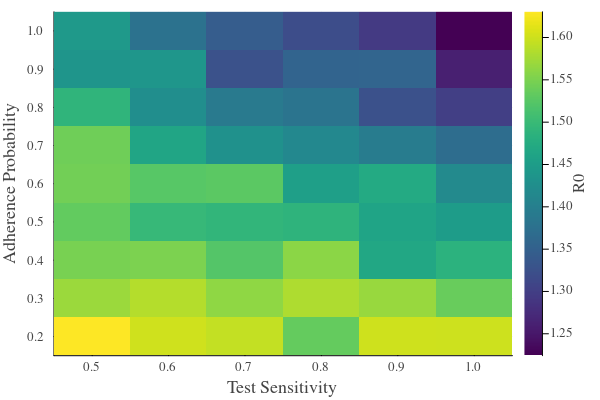
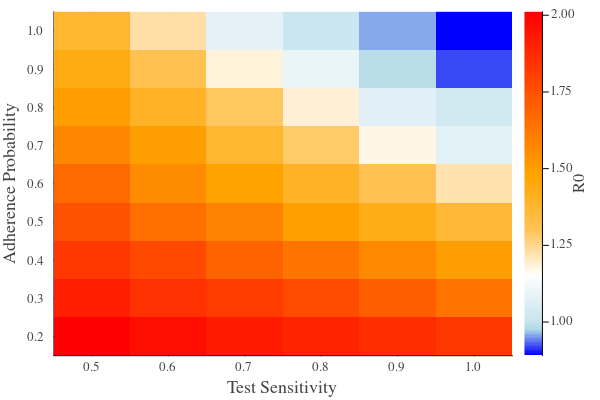
interventions, batches and results

diff --git a/docs/src/modelling_case_study.md b/docs/src/modelling_case_study.md
@@ -447,41 +447,46 @@ println(r0(rd_f))
 ```
 
 ### 3.3 Interventions
-In this section, we define a **reusable intervention strategy**: testing combined with isolation. This is the core “intervention” concept, and all later experiments build on it. 
+In this section, we define a **reusable intervention strategy**: testing combined with isolation. This is the core “intervention” concept, and all later experiments build on it.
 
-We encapsulate the testing and isolation strategy in a function `test_and_isolation(sim; ...)`:
+```@raw html
+<p align="center">
+    <img src="assets/case_study/trism_graphic.png" width="80%"/>
+</p>
+```
+
+We encapsulate the testing and isolation strategy in a function `tick_test_and_isolation(sim; ...)`:
 
 - Create a new **antigen test** with configurable sensitivity and specificity.  
-- Define a **self-isolation strategy** that is applied after a positive test.  
-- Combine the test and isolation into a **TriSM**, triggered by symptoms.  
+- Define a **self-isolation strategy** that is applied after a positive test.
+- Trigger the testing strategy by a certain **tick**
 - Apply optional **delays** and **conditions** to testing and isolation.
 
 
 ```julia
-function test_and_isolation!(sim::Simulation; 
+function tick_test_and_isolation!(sim::Simulation; 
     test_sensitivity::Float64 = 1.0, 
     test_specificity::Float64 = 1.0, 
     test_condition::Function = i -> true,                         
     isolation_condition::Function = i -> true,
     test_delay::Function = i -> 0,
-    isolation_delay::Function = i -> 0)
+    isolation_delay::Function = i -> 0,
+    trigger_interval::Int16 = Int16(1))
     
     antigen_test = TestType("Antigen Test", pathogen(sim), sim, 
     sensitivity=test_sensitivity, specificity=test_specificity)
-
     # define self isolation strategy
     self_isolation = IStrategy("Self Isolation", sim)
-    add_measure!(self_isolation, SelfIsolation(14), 
-    delay=isolation_delay, condition=isolation_condition)
-
+    add_measure!(self_isolation, SelfIsolation(14), delay=isolation_delay, 
+    condition=isolation_condition)
     # define testing strategy that triggers self isolation
     testing = IStrategy("Testing", sim)
-    add_measure!(testing, Test("Test", antigen_test, 
-    positive_followup=self_isolation), delay = test_delay, condition=test_condition)
+    add_measure!(testing, Test("Test", antigen_test, positive_followup=self_isolation), 
+    delay = test_delay, condition=test_condition)
 
-    # trigger testing on symptoms
-    trigger = SymptomTrigger(testing)
-    add_symptom_trigger!(sim, trigger)
+    trigger = ITickTrigger(testing, switch_tick = Int16(1), interval = trigger_interval)
+    add_tick_trigger!(sim, trigger)
+
 end
 ```
 By encapsulating the intervention in a function, we can easily reuse it for multiple parameter combinations.
@@ -492,7 +497,7 @@ We can now use the function to run the intervention scenario against the baselin
 baseline = Simulation(label="No Interventions", population="SL", configfile="r0_fitted.toml")
 scenario = Simulation(label="With Interventions", population="SL", configfile="r0_fitted.toml")
 
-test_and_isolation!(scenario)
+tick_test_and_isolation!(scenario)
 
 run!(baseline)
 run!(scenario)
@@ -502,12 +507,13 @@ rd_s = ResultData(scenario)
 
 gemsplot([rd_b, rd_s])
 ```
-
+**Plot**
 ```@raw html
 <p align="center">
-    <img src="assets/case_study/interventions.png" width="80%"/>
+    <img src="assets/case_study/interventions.png" width="60%"/>
 </p>
 ```
+The Plot shows how the interventions control the disease outbreak.
 
 ### 3.4 Batch Simulations
 We know that neither the test sensitivity nor the mandate adherence will be perfect. That is why we will investigate now which combinations are "good enough", in the sense that it will keep the R value under 1 and stop the epidemic. 
@@ -536,7 +542,7 @@ adherences = 0.2:0.1:1.0
 We loop over all combinations of test sensitivity and adherence:
 
 - Create a new `Simulation` object for each combination.  
-- Apply the `test_and_isolation` intervention with the current parameter values.  
+- Apply the test and isolation intervention with the current parameter values.  
 - Run the simulation and extract the outcome (R₀).  
 - Store the results in the vectors for plotting.
 
@@ -597,16 +603,148 @@ gemsheatmap(
 
 The heatmap shows which combinations of test sensitivity and adherence are sufficient to reduce R₀ below 1, helping to identify effective containment strategies.
 
+**Heatmap**
 ```@raw html
 <p align="center">
     <img src="assets/case_study/heatmap_r0.png" width="80%"/>
 </p>
 ```
 
+The batch setup above is intentionally generic and can be extended in many directions.  
+While we focused here on the interaction between test sensitivity and adherence, the same workflow can be used to explore a wide range of alternative scenarios, for example:
+
+- **Testing frequency:** compare daily testing, weekly testing, or testing every two weeks, and quantify how many tests are required to achieve R₀ < 1.
+- **Partial testing coverage:** test only a fraction of the population (e.g. 50% of agents) and compare the results to full testing with imperfect adherence.
+- **Test characteristics:** vary test specificity in addition to sensitivity to study the impact of false positives and unnecessary quarantines.
+- **Reporting delays:** introduce delays between testing and result availability and assess how this affects epidemic control.
+- **Alternative trade-offs:** analyze whether fewer tests with perfect isolation produce similar outcomes to more frequent testing with imperfect adherence.
+
+These explorations follow the same batch-simulation pattern and highlight how intervention design, testing logistics, and behavioral assumptions jointly shape epidemic dynamics. In the next section, we focus on how to systematically analyze and structure the resulting outputs.
+
 ### 3.5 Analyzing Outputs
 
-#### 3.5.1 Saving Results
-#### 3.5.2 Result Data Styles
+The heatmap in the previous section provides a first qualitative answer to our central question:  
+*Which combinations of test sensitivity and adherence are sufficient to control the epidemic (R₀ < 1)?*
+
+However, this visualization has clear limitations. It shows only a single outcome (R₀), provides relative patterns rather than numerical values, hides trade-offs between effectiveness and cost (e.g. testing effort or quarantine burden), and does not capture temporal dynamics such as how quickly cases decline.
+
+To move beyond visual inspection, we need structured access to the simulation outputs of each individual run. In GEMS, this is provided by **ResultData** objects.
+
+#### 3.5.1 Result Data Styles
+
+Each simulation run in GEMS produces a `ResultData` object containing the post-processed outputs of the model. The choice of *result data style* determines which quantities are computed and stored.
+
+The default result data style is comprehensive but unnecessarily heavy for a focused intervention study. For this case study, we therefore define a **custom result data style** that stores only the quantities needed to evaluate testing and isolation strategies. This keeps the analysis focused and reduces memory and post-processing overhead when running large batches of simulations.
+
+Our `CustomResultData` supports three complementary perspectives:
+
+- **Intervention effectiveness**, via aggregated outcomes such as R₀, attack rate, total infections, and detection rate.
+- **Intervention cost and burden**, quantified by the total number of tests and total quarantine days.
+- **Temporal dynamics**, captured through selected time series (e.g. cases per tick, detected cases, effective R, cumulative quarantines).
+
+```julia
+export CustomResultData
+
+mutable struct CustomResultData <: ResultDataStyle
+    data::Dict{String, Any}
+    function CustomResultData(pP::PostProcessor)
+        funcs = Dict(
+            "sim_data" =>
+                Dict(
+                    "number_of_individuals" => () -> pP |> simulation |> population |> individuals |> length,
+                    "r0" => () -> pP |> r0,
+                    "total_infections" => () -> pP |> infectionsDF |> nrow,
+                    "attack_rate" => () -> pP |> attack_rate,
+                    "strategies" => () -> pP |> simulation |> strategies,
+                    "tick_triggers" => () -> pP |> simulation |> tick_triggers,
+                    "testtypes" => () -> pP |> simulation |> testtypes,
+                    "total_quarantines" => () -> pP |> total_quarantines,
+                    "total_tests" => () -> pP |> total_tests,
+                    "detection_rate" => () -> pP |> detection_rate
+                ),
+            "dataframes" =>
+                Dict(
+                    "infections" => () -> pP |> infectionsDF,
+                    "tests" => () -> pP |> testsDF,
+                    "effectiveR" => () -> pP |> effectiveR,
+                    "tick_cases" => () -> pP |> tick_cases,
+                    "cumulative_cases" => () -> pP |> cumulative_cases,
+                    "cumulative_disease_progressions" => () -> pP |> cumulative_disease_progressions,
+                    "cumulative_quarantines" => () -> pP |> cumulative_quarantines,
+                    "tick_tests" => () -> pP |> tick_tests,
+                    "detected_tick_cases" => () -> pP |> detected_tick_cases,
+                    "rolling_observed_SI" => () -> pP |> rolling_observed_SI,
+                    "observed_R" => () -> pP |> observed_R,
+                    "tick_cases_per_setting" => () -> pP |> tick_cases_per_setting,
+                    "customlogger" => () -> pP |> simulation |> customlogger |> dataframe,
+                )
+        )
+
+        # call all provided functions and replace
+        # the dicts with their return values
+        return(
+            new(process_funcs(funcs))
+        )
+    end
+end
+```
+The heatmap analysis identified regions of the parameter space where the epidemic can be controlled (R₀ < 1). However, several of these parameter combinations may be equally effective while differing  in their **resource requirements**. To distinguish between such scenarios, we now turn to a more quantitative analysis based on `ResultData`.
+
+As a concrete example, we focus on **testing efficiency**, defined as the number of tests required to prevent one infection. This metric cannot be inferred from visualizations alone, as it requires direct access to numerical outputs from each simulation run.
+
+Using the `CustomResultData`, we extract for every simulation:
+
+- the basic reproduction number (R₀),
+- the total number of infections,
+- the total number of tests performed.
+
+From these values, we compute a derived quantity:
+
+> **tests per infection** = total tests ÷ total infections
+
+This step is implemented by iterating over the stored `ResultData` objects and collecting the relevant fields.  
+
+```julia
+# access individual ResultData objects
+runs = bd.data["runs"]
+
+r0_vals = Float64[]
+tests_per_infection = Float64[]
+
+for rd in runs
+    r0 = rd.data["sim_data"]["r0"]
+    total_tests = sum(values(rd.data["sim_data"]["total_tests"]))
+    total_infections = rd.data["sim_data"]["total_infections"]
+
+    push!(r0_vals, r0)
+    push!(tests_per_infection, total_tests / total_infections)
+end
+```
+
+To analyze the resulting trade-offs, we visualize the relationship between **epidemic control** and **testing effort**. A scatter plot with R₀ on the x-axis and tests per infection on the y-axis reveals whether achieving lower R₀ values requires disproportionately higher testing intensity. 
+
+```julia
+using Plots
+
+scatter(
+    r0_vals,
+    tests_per_infection;
+    xlabel = "R₀",
+    ylabel = "Tests per Infection",
+    title = "Trade-off Between Epidemic Control and Testing Effort",
+    legend = false
+)
+```
+
+In addition to visual analysis, the numerical results can be inspected directly. Printing a compact summary for each simulation run allows us to identify parameter combinations that keep R₀ below 1 while minimizing testing effort.  
+
+**Plot**
+
+This analysis highlights that intervention strategies should not be evaluated solely based on whether they control the epidemic, but also on **how efficiently** they do so. By working directly with `ResultData`, we can quantify these trade-offs and identify scenarios that are both epidemiological effective and operationally feasible.
+
+The same approach can be extended to other questions, such as the impact of testing frequency, partial population coverage, reduced test specificity, or delayed test results.
+
+#### 3.5.2 Saving Results
 
 ## 4. Model Refinement and Iteration
 ### 4.1 Custom Transmission Functions
@@ -704,6 +842,8 @@ gemsplot(rds, type = (:CompartmentFill, :EffectiveReproduction, :TickCasesBySett
 #### 4.2.2 Contact Sampling
 ### 4.3 Recalibration
 ### 4.4 Extending Outcomes
+#### 4.4.1 Adjust Result Data Style
+#### 4.4.2 Batch Data Styles
 
 ## 5. Discussion & Evaluation
 
